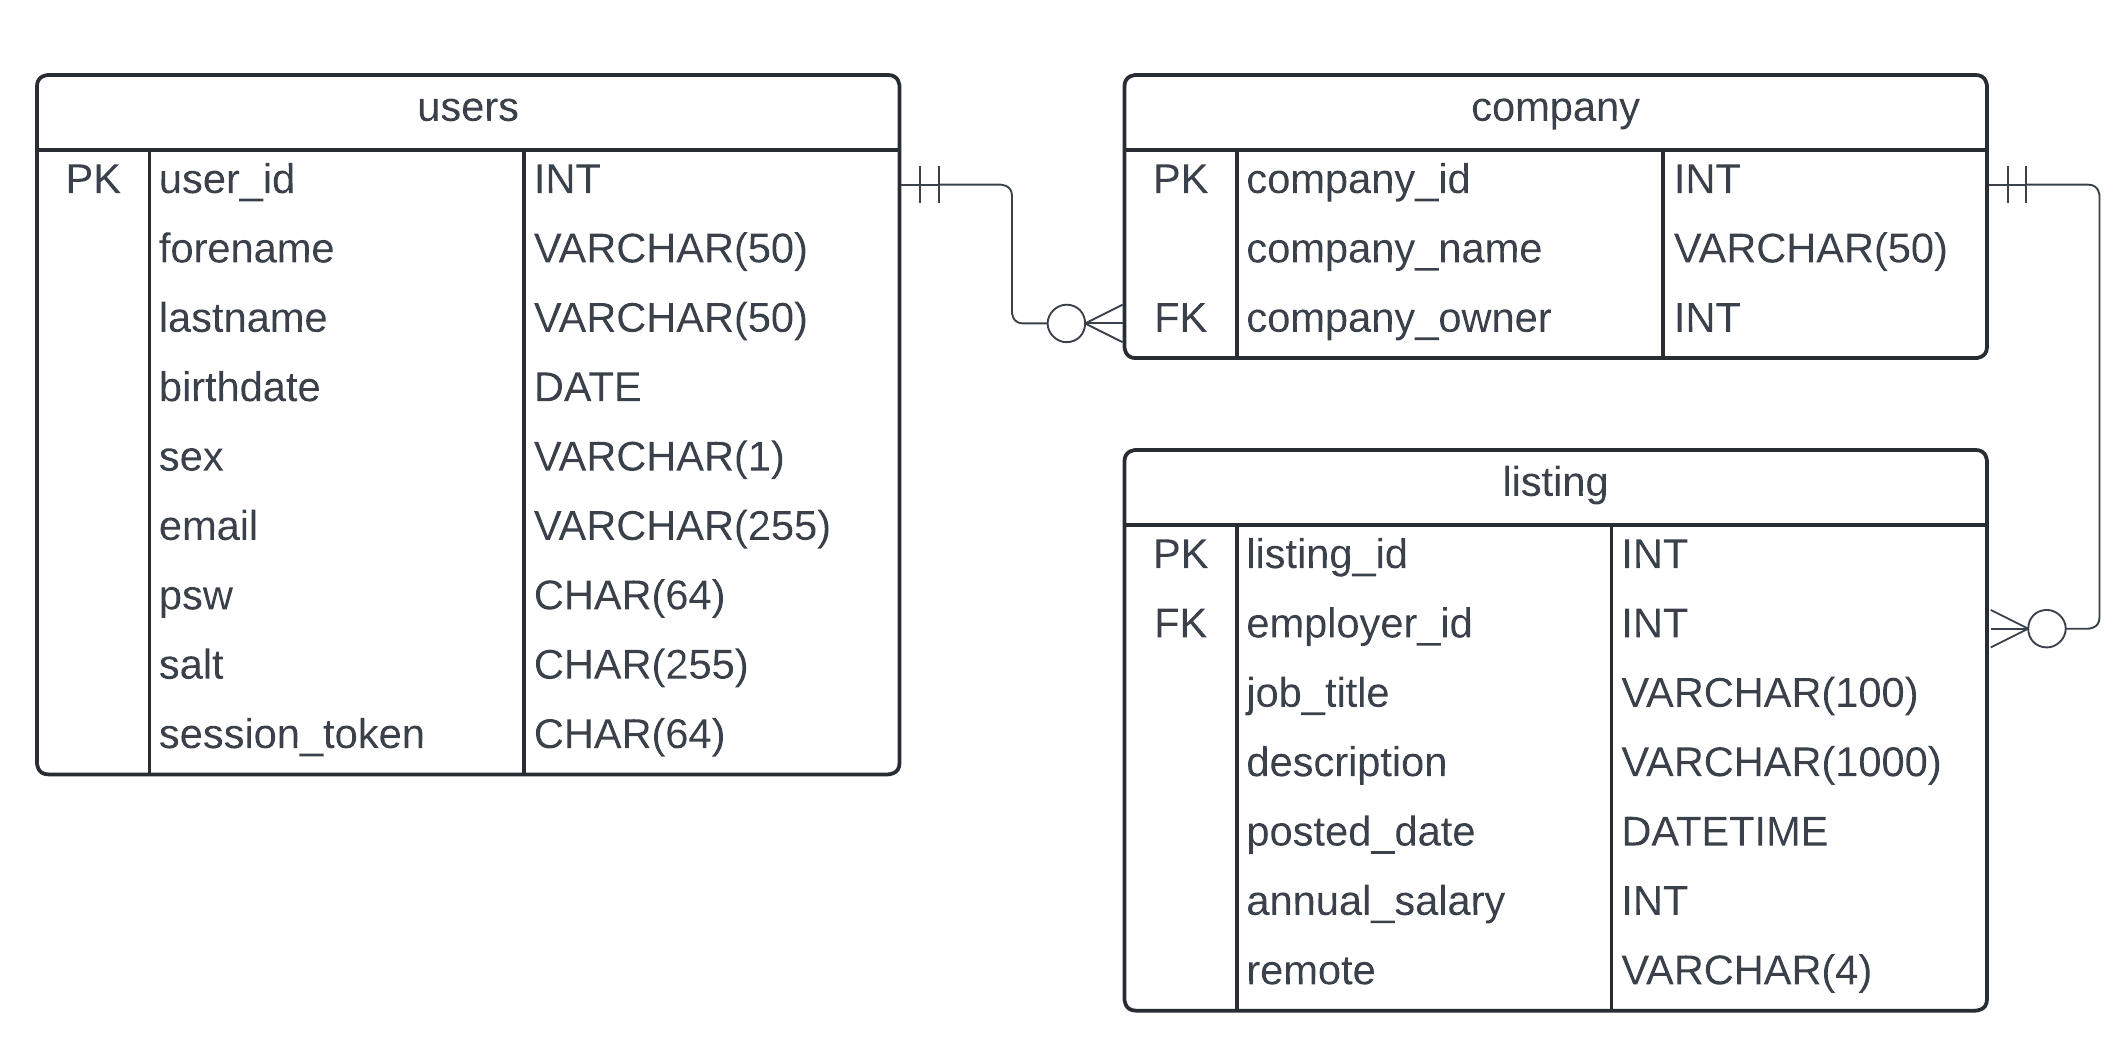
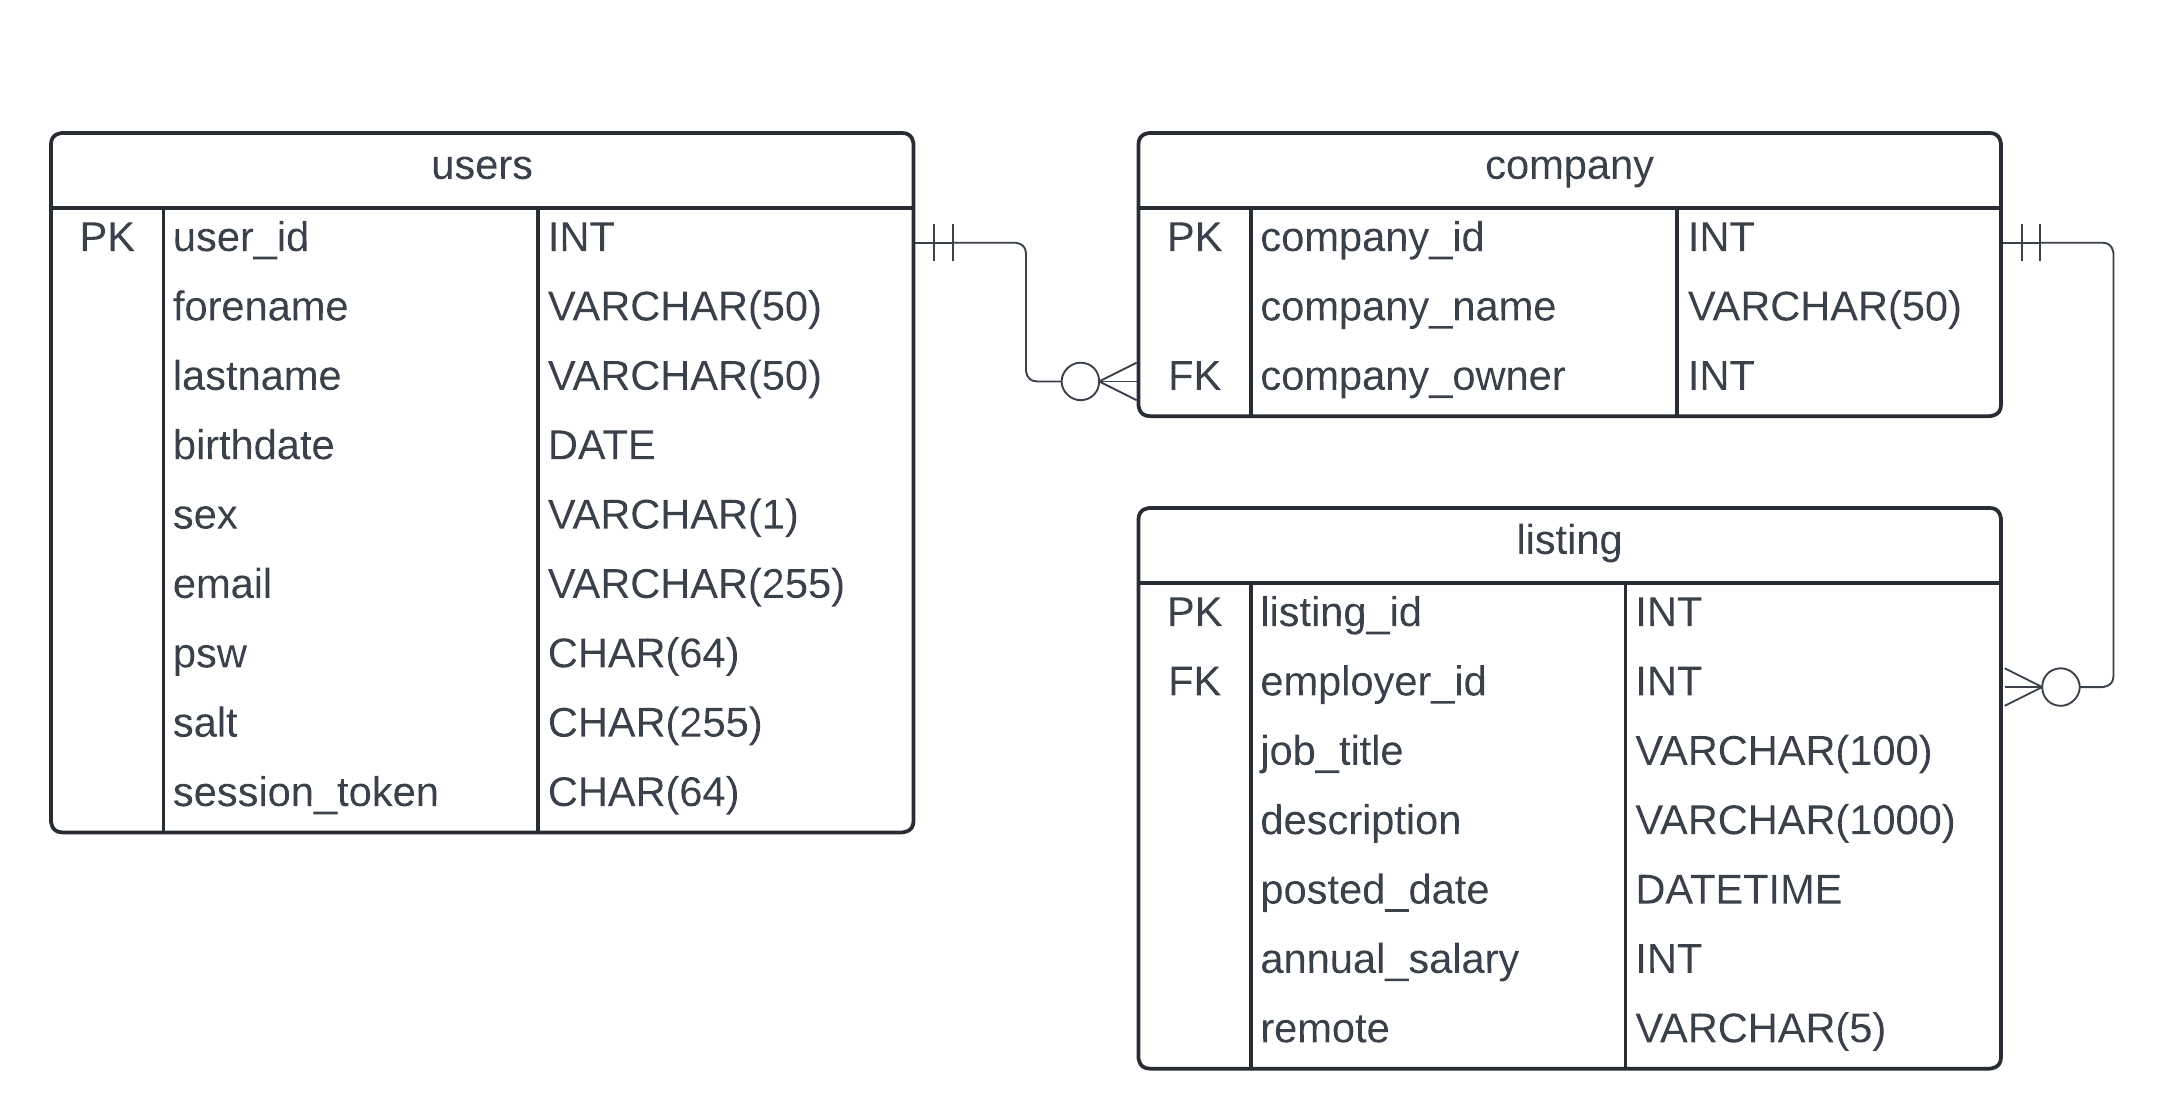
fix(db): remote VARCHAR(4) -> remote VARCHAR(5)

diff --git a/src/db/connection.ts b/src/db/connection.ts
@@ -70,7 +70,7 @@ export const initTablesIfNotExisting = async () => {
           description VARCHAR(1000) NOT NULL,
           posted_date TIMESTAMP NOT NULL DEFAULT NOW(),
           annual_salary INT NOT NULL,
-          remote VARCHAR(4) NOT NULL,
+          remote VARCHAR(5) NOT NULL,
           FOREIGN KEY (employer_id) REFERENCES company(company_id) ON DELETE CASCADE
         )
       `);

diff --git a/README.md b/README.md
@@ -6,24 +6,14 @@ Online Job Platform REST API is an open source platform which enables a user bas
 
 ### Technologies Used
 
-Online Job Platfrom REST API is based on [TypeScript](https://www.typescriptlang.org/), [NodeJS](https://nodejs.org/), [ExpressJS](https://www.expresjs.org/), [MySql](https://www.mysql.com/) and [expres-validator](https://express-validator.github.io/docs/).
+Online Job Platfrom REST API is based on [TypeScript](https://www.typescriptlang.org/), [NodeJS](https://nodejs.org/), [ExpressJS](https://expressjs.com/), [MySql](https://www.mysql.com/) and [expres-validator](https://express-validator.github.io/docs/).
 
 <div style="display: flex; justify-content: center;">
-  <a href="https://www.typescriptlang.org/">
     <img style="width: 50px; height: 50px; margin-right: 20px;" src="https://static-00.iconduck.com/assets.00/typescript-icon-icon-1024x1024-vh3pfez8.png" alt="TS" />
-  </a>
-  <a href="https://nodejs.org/">
     <img style="width: 45px; height: 50px; margin-right: 20px;" src="https://static-00.iconduck.com/assets.00/node-js-icon-454x512-nztofx17.png" alt="NodeJS" />
-  </a>
-  <a href="https://www.expresjs.org/">
     <img style="width: 100px; height: 50px; margin-right: 20px;" src="https://www.vectorlogo.zone/logos/expressjs/expressjs-ar21.svg" alt="express" />
-  </a>
-  <a href="https://www.mysql.com/">
     <img style="width: 100px; height: 50px; margin-right: 20px;" src="https://static-00.iconduck.com/assets.00/mysql-original-wordmark-icon-2048x1064-jfbaqrzh.png" alt="MySql" />
-  </a>
-  <a href="https://express-validator.github.io/docs/">
     <img style="width: 50px; height: 50px;" src="https://express-validator.github.io/img/logo.svg" alt="express-validator" />
-  </a>
 </div>
 
 ### Installation Guide
